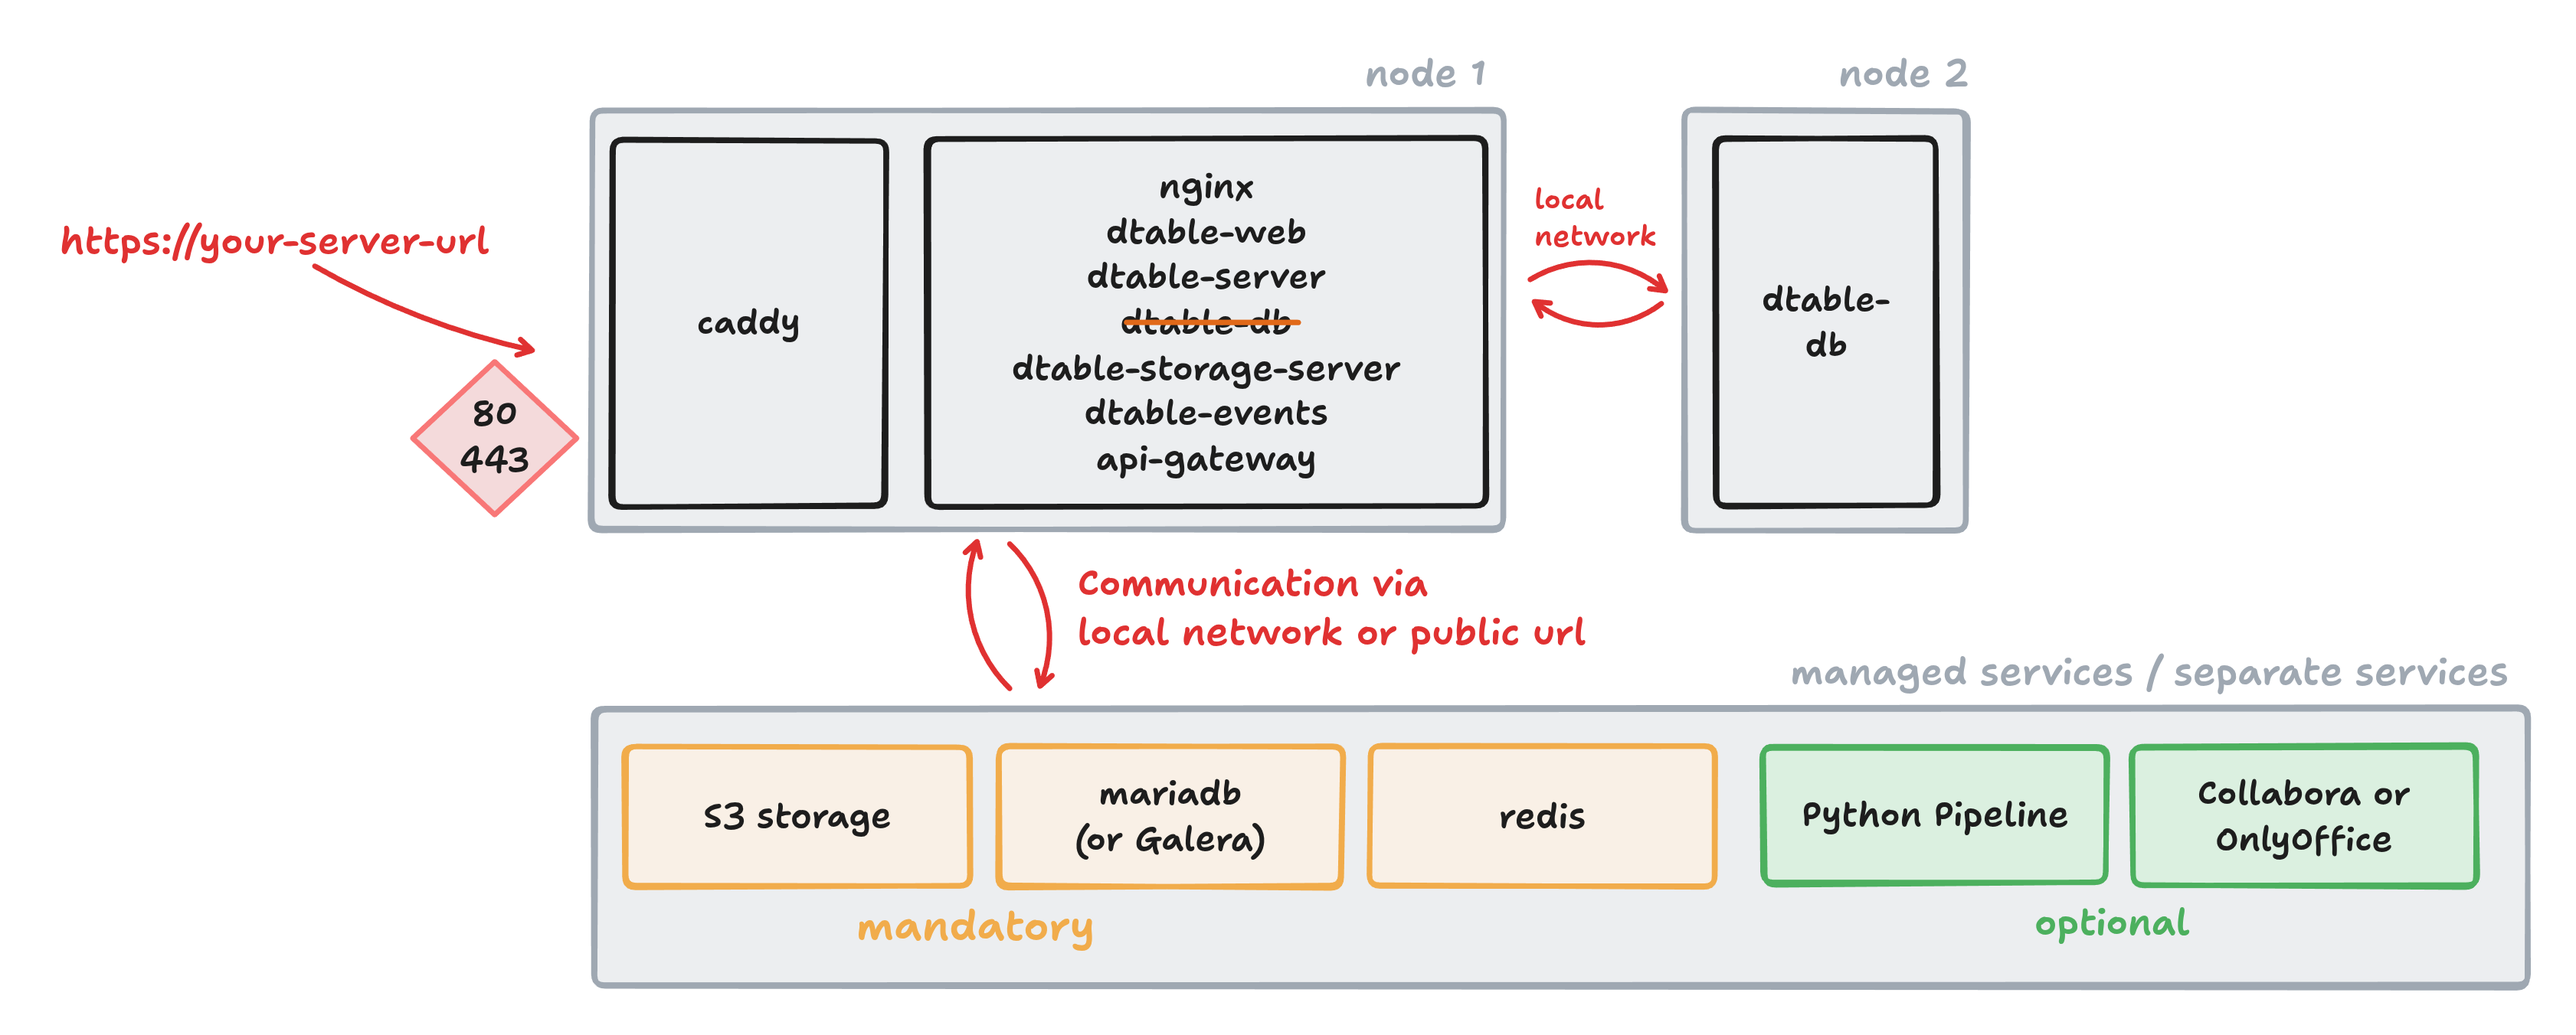
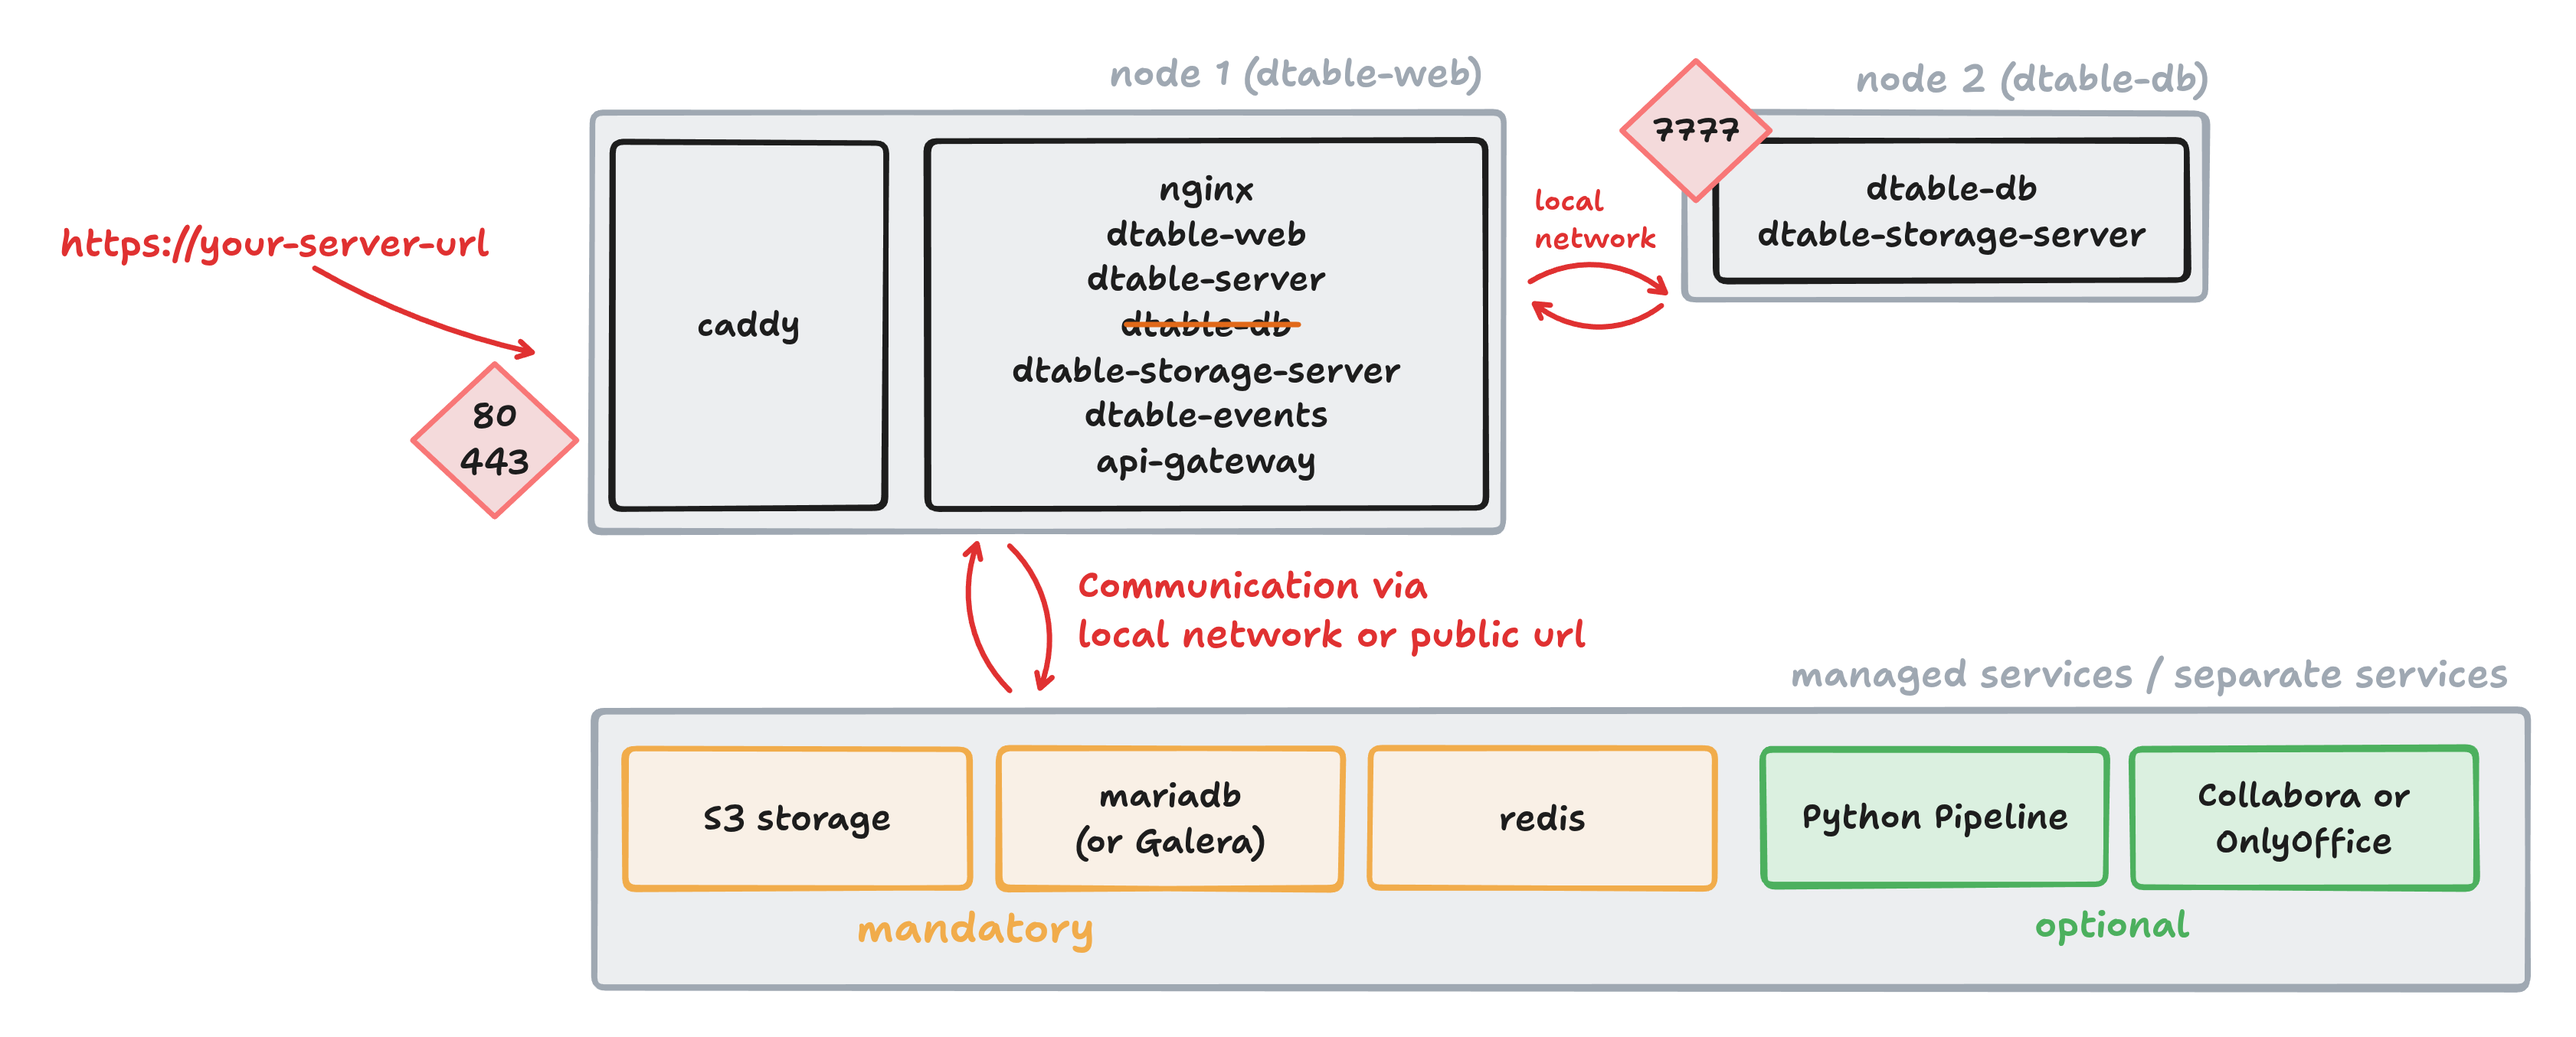
progress in cluster documentation

diff --git a/docs/installation/cluster/dtable-server-multiple.md b/docs/installation/cluster/dtable-server-multiple.md
@@ -1,0 +1,151 @@
+# Installation multiple dtable-server
+
+Since dtable-server is typically the first bottleneck if you system increases, it makes sense to scale your dtable-server horizontally. Then we will add a proxy to the dtable-web node, to share the base requests for these two servers. 
+
+![SeaTable Cluster: multiple dtable-servers](../../assets/images/seatable-cluster-dtable-server-multiple.png)
+
+## Routing logic with multiple dtable-server
+
+The routing logic to dtable-server must be defined in advance. Why?
+stateless, but same base must always be opened on the same server. therefore no change or ...
+
+All bases starting with 0-9 will be handled by the first dtable-server.
+All bases starting with a-f will be handled by the second dtable-server.
+
+
+<!-- TODO: Grafik -->
+
+# Installation of second dtable-server
+
+Install another dtable-server like described in the dtable-server (standalone). Check that the dtable-server is available via port 5000, too.
+
+Dont forget to add the new server to the extra_hosts section...
+
+test that dtable-server is available via port 5000
+
+## Add proxy to the frontend to split the requests
+
+alle anfragen gehen nun über einen neuen proxy, den wir auf dtable-web anlegen.
+
+```
+---
+services:
+  dtable-server-proxy:
+    image: nginx:1.27.5-alpine
+    container_name: dtable-server-proxy
+    ports:
+      - "5000:5000"
+    volumes:
+      - ./nginx-proxy.conf:/etc/nginx/nginx.conf:ro
+    networks:
+      - backend-seatable-net
+    extra_hosts:
+      - "xxx:10.0.0.4"
+      - "xxx-2:10.0.0.6"
+    logging:
+      driver: json-file
+      options:
+        # Maximum size per file
+        max-size: 10m
+        # Maximum number of files
+        max-file: 3
+
+networks:
+  frontend-net:
+    name: frontend-net
+```
+
+nginx-proxy.conf
+```
+worker_processes auto;
+
+events {
+  worker_connections 4096;
+}
+
+http {
+  access_log off;
+  error_log /dev/stdout warn;
+
+  # dtable-server 1
+  upstream dtable_server_a_z {
+    server seatable-n3:5000;
+    keepalive 15;
+  }
+
+  # dtable-server 2
+  upstream dtable_server_0_9 {
+    server seafile-n4:5000;
+    keepalive 15;
+  }
+
+  # Map to dynamically determine the upstream server based on the UUID in the URL
+  map $request_uri $dtable_upstream {
+    default dtable_server_a_z;                  # Default to the a-z server
+    "~*ff84e1a1-66e2" dtable_server_0_9;        # force that this base uuid goes to server 2
+    "~*([a-zA-Z])([0-9a-f]{7}-[0-9a-f]{4})" dtable_server_a_z;
+    "~*([0-9])([0-9a-f]{7}-[0-9a-f]{4})" dtable_server_0_9;
+  }
+
+server {
+  server_name _;
+  listen 5000;
+
+  location / {
+    proxy_pass http://$dtable_upstream;
+    proxy_set_header X-Upstream-Server $dtable_upstream;
+    client_max_body_size 100m;
+
+    # Added by sha on 2025/04/23
+    # websocket proxying
+    proxy_http_version 1.1;
+    proxy_set_header Upgrade $http_upgrade;
+    proxy_set_header Connection upgrade;
+
+    access_log /tmp/access.log;
+    error_log /tmp/error.log;
+  }
+}
+}
+```
+
+dtable-server-proxy.yml to .env
+ports 5000 weg, dafür 8000? # warum?
+
+INNER_DTABLE_SERVER auf seatable-n1:5000 ändern!
+in api-gateway seatable-n3:5000 zu seatable-n1:5000 ändern
+
+in gunicorn.py
+
+bind = '0.0.0.0:8000'
+
+- die config/seatable-nginx.conf verweist bei /dtable-server/ping und /dtable-db/ping auf falsche ziele.
+somit geht nicht: https://78.47.125.121.nip.io/dtable-db/ping/
+
+
+### umstellung auf dtable-db
+
+dtable-db.conf wieder auf 
+
+[dtable cache]
+dtable_server_url = "http://seatable-n1:5000"
+
+
+---
+
+Wichtig: seatable-n1 und seatable-n2 neu starten.
+
+testen:
+- auf seatable-n1 sollte nun wieder ein curl http://127.0.0.1:5000/ping/ gehen.
+- auf seatable-n1 sollte ein curl 127.0.0.1:8000/api2/ping/ gehen.
+- aufruf jeweils einer base mit 0-9 oder a-f, man sieht die logs in dtable-server-1 und dtable-server-2
+vollständiger funktionstest: 
+
+- bases öffnen
+- app anlegen und daten abrufen, ändern
+- big data view anlegen und daten übertragen
+
+
+TODO:
+- klären, ob anderes netzwerk als frontend-net
+- anpassen

diff --git a/docs/installation/cluster/requirements.md b/docs/installation/cluster/requirements.md
@@ -6,7 +6,9 @@ status: new
 
 The requirements for running a SeaTable cluster build upon those for a single-node setup. In addition to the standard prerequisites, the following requirements must be met to successfully deploy a cluster:
 
-- **At least 4 nodes** (physical or virtual) in a private network, each with a minimum of 2 CPUs and 4 GB RAM.
+- **At least 4 nodes** (physical or virtual) each with a minimum of 2 CPUs and 4 GB RAM.
+- All nodes are connected via a **private network**.
+- One node (running dtable-web) must be publically available via **port 80 and 443**.
 - **S3-compatible object storage** is required for storing files and attachments. (Alternative storage technologies may be possible but are not covered in detail here.)
 - **Centralized MariaDB and Redis services**: These must be accessible to all nodes in the private network. You can either use managed services or operate your own MariaDB and Redis instances.
 - If you plan to use the **Office Editor** or the **Python Pipeline**, these services must also be provided as separate services within the private network.
@@ -18,3 +20,18 @@ The requirements for running a SeaTable cluster build upon those for a single-no
     The performance of services such as MariaDB, Redis, and object storage is critical for stable cluster operation.
 
 If you can fulfill these requirements, you are ready to proceed with the [deployment of a SeaTable cluster](./basic-setup-with-external-services.md).
+
+## Hardware recommendations for 1.000+ users
+
+Organizations frequently ask about the hardware resources needed to support more than 1,000 users. The following setup is recommended for companies or teams with 1,000 users, assuming average usage patterns, including some heavy users, API usage, Python scripting, and automations.
+
+This configuration is designed to handle typical workloads, but you should consider scaling resources further if you expect very large bases, intensive scripting, or high-frequency API calls, as these can significantly increase memory and CPU requirements.
+
+| Server component | CPUs | RAM (in GB) | Local storage (in GB) |
+| --- | --- | --- | --- | 
+| dtable-web        | 4 | 8 | 100 |
+| dtable-db         | 4 | 16 | 100 |
+| dtable-server-1   | 4 | 8 | 50 |
+| dtable-server-2   | 4 | 8 | 50 |
+| mariadb (self-hosted) | 4 | 16 | 100 |
+| python pipeline | 2 | 4 | 50 |

diff --git a/docs/installation/cluster/dtable-db-standalone.md b/docs/installation/cluster/dtable-db-standalone.md
@@ -113,7 +113,25 @@ Now, start dtable-db for the first time and monitor the logs:
 docker compose up -d
 ```
 
-### Verify installation
+---
+
+> das folgende stimmt, aber noch ausformulieren
+
+Es sind drei Änderungen notwendig:
+
+- Add s3 configuration to conf/dtable-storage-server.conf - analog zu node 1
+- zwei Änderungen in dtable-db.conf:
+
+[general]
+host = 0.0.0.0
+
+[dtable cache]
+#dtable_server_url = "http://127.0.0.1:5000"  # old
+dtable_server_url = "http://seatable-n1:5000"   # new
+
+Man kann hier noch nicht kontrollieren, weil 5000 nicht erreichbar ist.
+
+### Verify installation on dtable-db
 
 To verify that dtable-db is running and port 7777 is exposed, run:
 
@@ -127,25 +145,31 @@ You should receive the following response:
 {"ret":"pong"}
 ```
 
-Add s3 configuration to conf/dtable-storage-server.conf - analog zu node 1
+
 
 ---
 
 ## ... switch utilization to new dtable-db
 
-
-
 ### Änderung 1
 
-Use .env to disable dtable-db from node 1.
+Use seatable-cluster.yml to disable dtable-db from node 1.
+expose port 5000
+extra_hosts hinzufügen
 
 ### Änderung 2
+
+dtable-api-gateway.conf
+
+[dtable-db]
+server_address = "http://seatable-n2:7777"
+
+### Änderung 3
 
 Add `INNER_DTABLE_DB_URL` to dtable_web_settings.py
 
 ```
-INNER_DTABLE_DB_URL = 'http://seatable-n2:7777/'   # or use internal ip of dtable-db node
-# brauche ich DTABLE_DB_URL? wahrscheinlich nicht https://url/dtable-db/
+INNER_DTABLE_DB_URL = 'http://seatable-n2:7777/'
 ```
 
 and "dtable_db_service_url": "http://seatable-n2:7777" to dtable_server_config.json
@@ -160,13 +184,14 @@ Rename dtable-db.conf to dtable-db.conf-obsolete
 
 ```sh
 docker compose up -d
-
 ```
 
 ---
 
 ## Verify complete setup 
 
-open a universal app in the webinterface. see log entries on second node.
+open a universal app in the webinterface. see log entries on second node in /logs/dtable-db-access.log
 
 TODO: add environment variables to  http://localhost:8000/configuration/environment-variables/
+
+Congratulations. dtable-db is now standalone.

diff --git a/docs/installation/cluster/dtable-server-standalone.md b/docs/installation/cluster/dtable-server-standalone.md
@@ -1,0 +1,55 @@
+# Installation dtable-server standalone
+
+![SeaTable Cluster: dtable-server standalone](../../assets/images/seatable-cluster-dtable-server-standalone.png)
+
+Installation eines neuen servers mit docker.
+kopie von lizenz, .env und dtable-db.yml von node zwei auf diesen server.
+
+Anpassung:
+- port 5000:5000
+- dtable-server=true
+- dtable-db=false
+
+starten
+
+## Anpassen der Konfiguration auf dtable-server
+
+- s3 konfiguration in dtable-storage-server.conf
+- anpassung von dtable_server_config.json
+
+{
+    "dtable_db_service_url": "http://seatable-n2:7777",
+    "dtable_web_service_url": "http://seatable-n1:8000" 
+}
+
+wichtig: die Kommas!
+
+restart.
+
+## Test von dtable-server
+
+vom host:
+curl 127.0.0.1:5000/ping/
+
+### Umstellung von frontend
+
+seatable-cluster.yml TODO: umbenennen in frontend.
+- ENABLE_DTABLE_SERVER=false
+
+in dtable-api-gateway.conf
+[dtable-server]
+server_address = "http://seatable-n3:5000"
+
+add `dtable_web_settings.py`
+
+```
+INNER_DTABLE_SERVER_URL = 'http://splash-frontend:5000/'
+```
+
+### Umstellung auf dtable-db:
+
+dtable-db.conf -> sollte auf seatable-n3:5000 umgestellt werden.
+
+### Finaler Test:
+
+aufrufen einer base und logs sehen in seatable-n3.

diff --git a/docs/installation/cluster/introduction.md b/docs/installation/cluster/introduction.md
@@ -6,9 +6,21 @@ status: new
 
 SeaTable can be operated both as a **single-node installation** and in **cluster mode**. The following section explains when each setup is appropriate and what advantages a cluster setup offers.
 
+![SeaTable Cluster Overview](../../assets/images/seatable-cluster-overview.png)
+
+<!-- TODO: Picture of final cluster setup! with open ports... -->
+<!-- TODO: Hardware recommendations -->
+
 !!! success "Don't be confused by the term `dtable`"
 
     Originally (a long time ago), SeaTable was going to be called `dtable` (short for _database table_). Although this term was later replaced with *SeaTable*, many internal components and log entries still use the old name `dtable`. Whenever you see `dtable`, it simply refers to a component of SeaTable.
+
+In the following, I will use these names for the various nodes as naming convention. Adapt them to your needs.
+
+- node 1: dtable-web (10.0.0.2)
+- node 2: dtable-db  (10.0.0.3)
+- node 3: dtable-server-1 (10.0.0.4)
+- node 4: dtable-server-2 (10.0.0.5)
 
 ## When is a single-node installation suitable?
 
